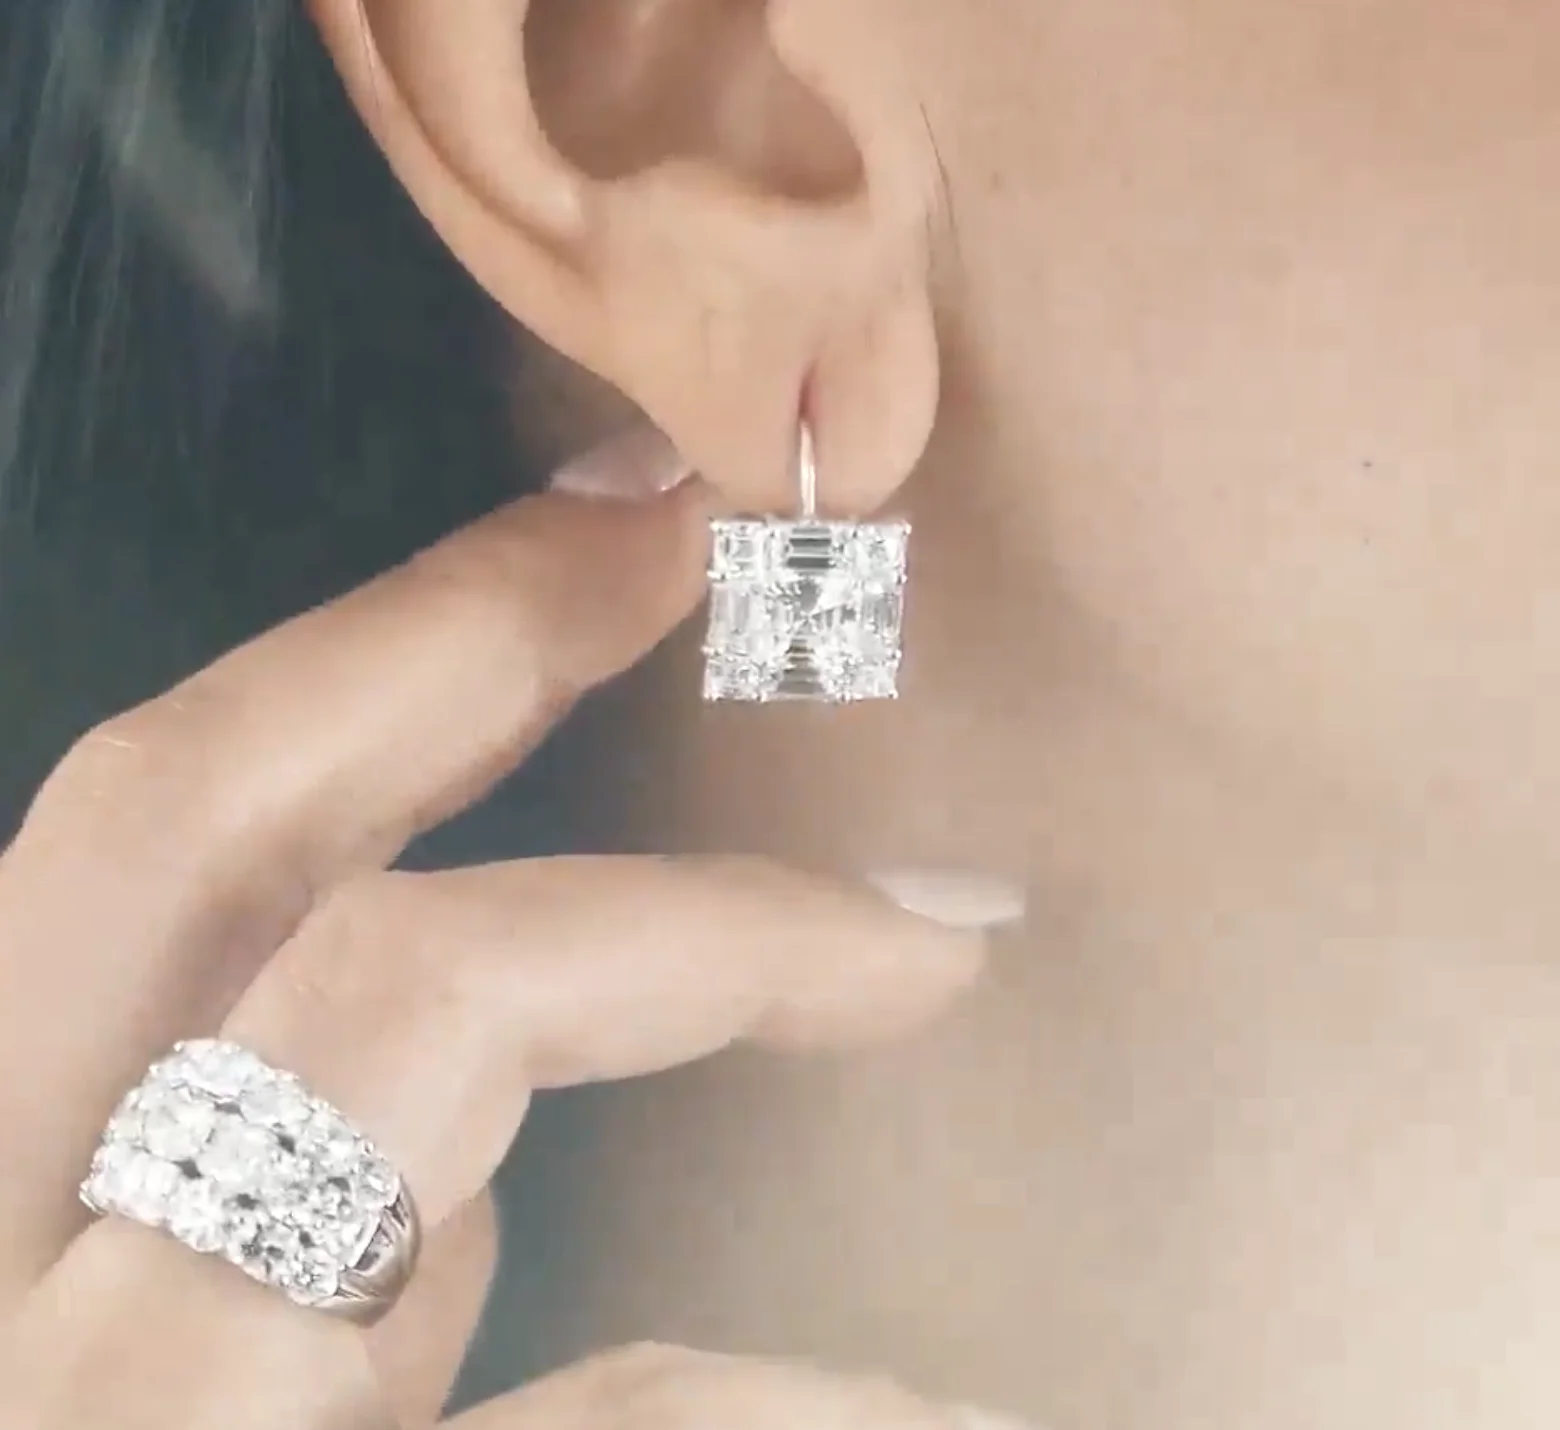
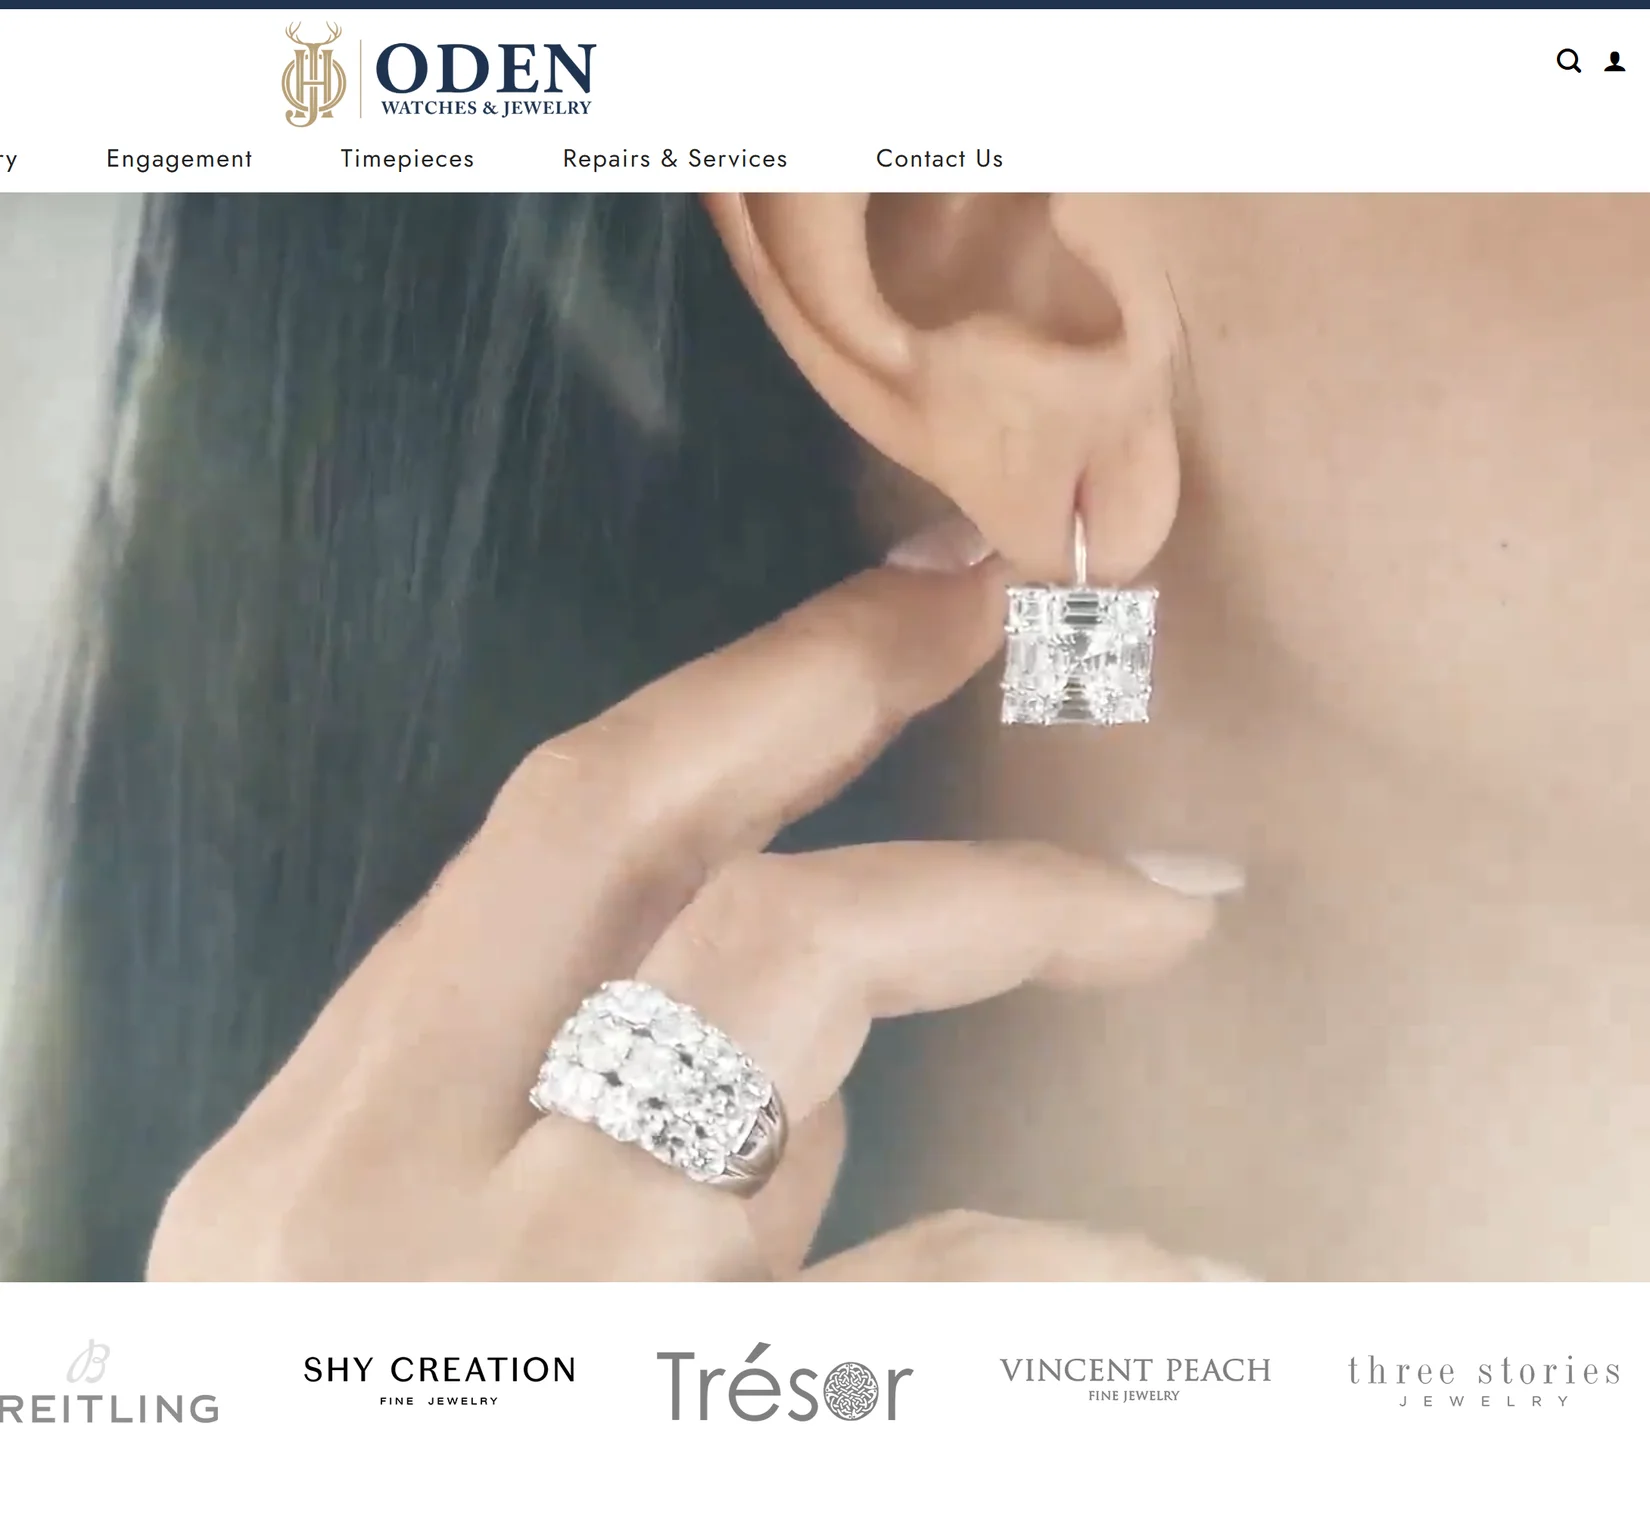
Fit story cards on phones and show Oden's homepage
The card grid column is capped to the card width so headlines no longer clip, phone text is a little smaller, and two long bullets are shortened. Oden's story card now shows its homepage with the JB Star earrings slide.

diff --git a/src/features/marketing/components/story-card.tsx b/src/features/marketing/components/story-card.tsx
@@ -28,7 +28,9 @@ export function StoryCard({
   return (
     <li
       className={cn(
-        "group relative isolate grid transform-gpu overflow-hidden rounded-media md:grid-cols-2",
+        // grid-cols-1 caps the column at the card's width; an implicit
+        // column grows with its content and the card clips the headline.
+        "group relative isolate grid transform-gpu grid-cols-1 overflow-hidden rounded-media md:grid-cols-2",
         className
       )}
     >
@@ -39,7 +41,7 @@ export function StoryCard({
         )}
       >
         <p className="text-sm font-medium text-white/80">{study.name}</p>
-        <Heading className="mt-4 text-h2 text-white">
+        <Heading className="mt-4 text-h2 text-white max-sm:text-[1.5rem]">
           {study.story.headline}
         </Heading>
         {/* What the product promises its users says more on a teaser card than
@@ -53,7 +55,9 @@ export function StoryCard({
               <span className="mt-0.5 grid size-5 shrink-0 place-items-center rounded-full bg-white/15">
                 <Check className="size-3.5" aria-hidden="true" />
               </span>
-              <span className="text-base leading-snug">{promise}</span>
+              <span className="text-base leading-snug max-sm:text-[0.9375rem]">
+                {promise}
+              </span>
             </li>
           ))}
         </ul>

diff --git a/src/features/marketing/content.ts b/src/features/marketing/content.ts
@@ -700,7 +700,7 @@ export const caseStudies: readonly CaseStudy[] = [
     ],
     productLabel: "Live site",
     promises: [
-      "Coverage explained before it's sold",
+      "Coverage explained up front",
       "Quotes compared across carriers",
       "A direct line to a local broker",
       "Answers in plain language",
@@ -822,7 +822,6 @@ export const caseStudies: readonly CaseStudy[] = [
       headline: "The technology partner behind a Jackson Hole boutique.",
       tone: "oden",
       image: "/images/studio/oden-earrings-story.webp",
-      focus: "object-center",
     },
     challenge: [
       "Oden is a fine jewelry and Swiss watch boutique on Glenwood Street in Jackson, Wyoming. Its founding idea is that luxury should feel warm, welcoming and personal, and its team has spent decades with some of the most respected names in jewelry and watches.",
@@ -832,7 +831,7 @@ export const caseStudies: readonly CaseStudy[] = [
     productLabel: "Live site",
     promises: [
       "A showroom that's open online",
-      "Repairs that start with a few photos",
+      "Repairs start with a few photos",
       "One partner for all of the tech",
       "Looked after since 2023",
     ],
